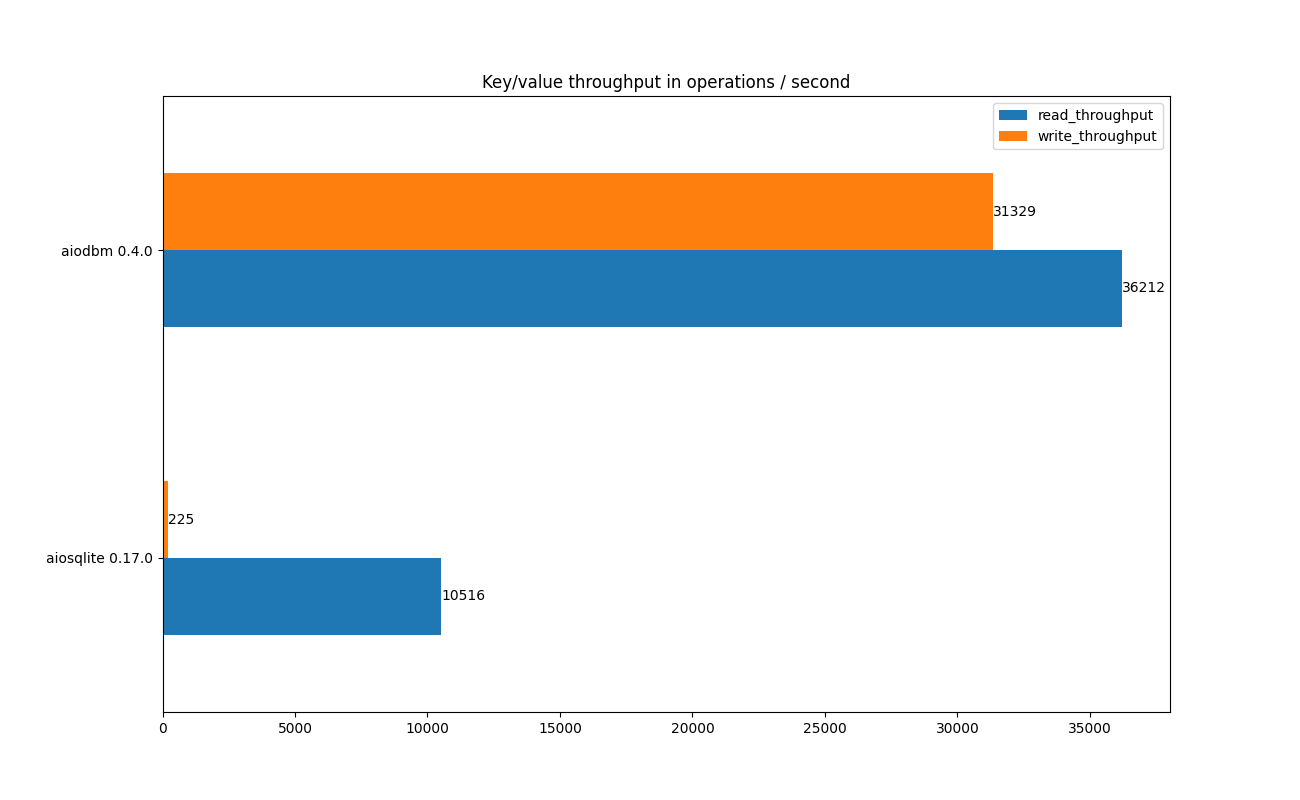
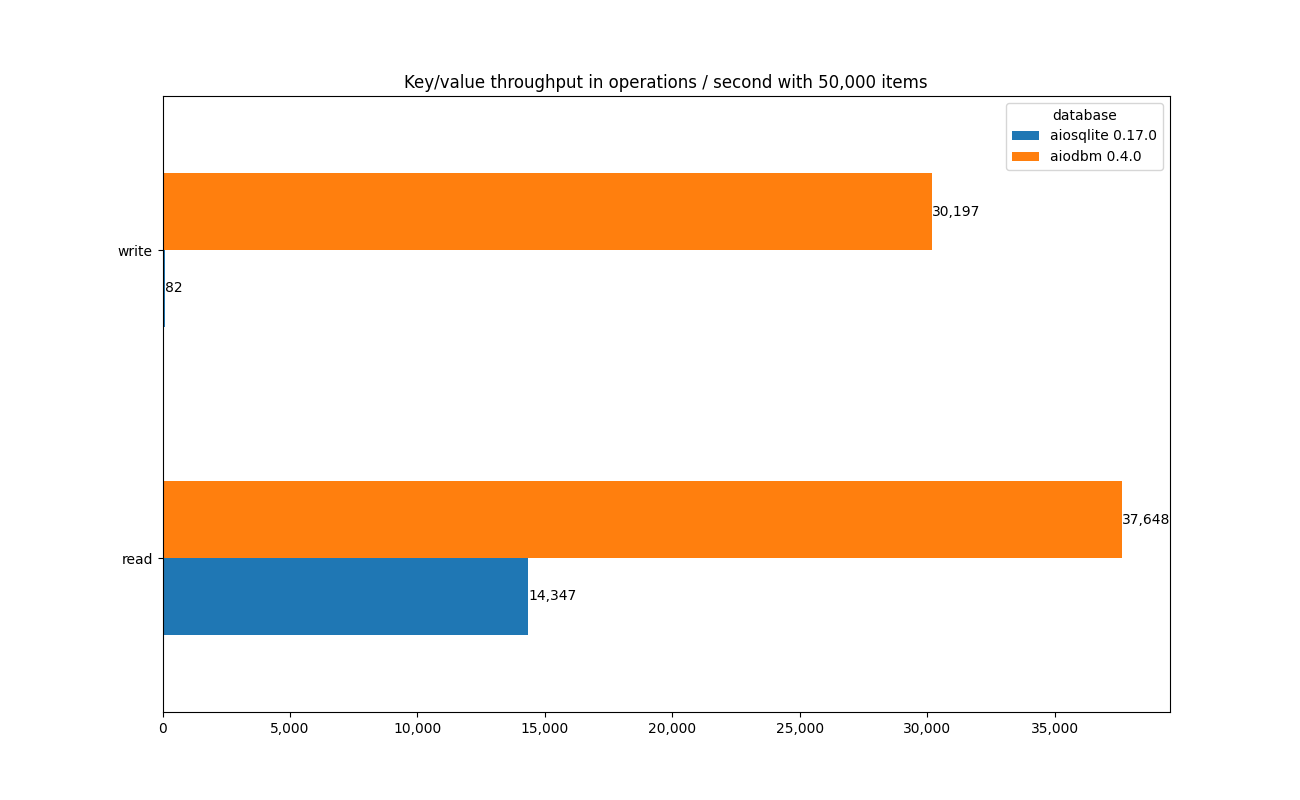
Measure for 50K items

diff --git a/measurements/run.py b/measurements/run.py
@@ -1,5 +1,6 @@
-"""Measure and compare throughput between normal DBM and asyncio version."""
+"""Measure and compare throughput between different asyncio key/value stores."""
 
+import argparse
 import asyncio
 import datetime as dt
 import json
@@ -48,12 +49,12 @@ def random_string(length: int) -> str:
 class Runner(ABC):
     name = "UNDEFINED"
 
-    def __init__(self, items_amount, obj_size) -> None:
-        if not items_amount or not obj_size:
+    def __init__(self, items_amount, item_size) -> None:
+        if not items_amount or not item_size:
             raise ValueError("Invalid params")
 
         self._items_amount = items_amount
-        self._obj_size = obj_size
+        self._item_size = item_size
         self._read_seconds = None
         self._write_sec = None
 
@@ -62,8 +63,8 @@ class Runner(ABC):
         return self._items_amount
 
     @property
-    def obj_size(self):
-        return self._obj_size
+    def item_size(self):
+        return self._item_size
 
     @property
     def read_throughput(self):
@@ -91,7 +92,7 @@ class Runner(ABC):
         """Run measurements and return result as throughput in items / sec."""
         with tempfile.TemporaryDirectory() as temp_dir:
             path = Path(temp_dir) / "measurement_2.dbm"
-            objs = self.generate_objs()
+            objs = self.generate_items()
 
             logger.info("%s: Start write measurements", self.name)
             timer_write = Timer()
@@ -111,9 +112,9 @@ class Runner(ABC):
         self._read_seconds = timer_read.duration_sec
         self._write_sec = timer_write.duration_sec
 
-    def generate_objs(self) -> Dict[str, bytes]:
+    def generate_items(self) -> Dict[str, bytes]:
         objs = {
-            f"item-{num:010}": random_string(self.obj_size).encode("utf-8")
+            f"item-{num:010}": random_string(self.item_size).encode("utf-8")
             for num in range(1, self.items_amount + 1)
         }
         return objs
@@ -136,7 +137,7 @@ class Runner(ABC):
             "read_throughput": self.read_throughput,
             "write_throughput": self.write_throughput,
             "items_amount": self.items_amount,
-            "object_size": self._obj_size,
+            "object_size": self._item_size,
             "timestamp": dt.datetime.utcnow().isoformat(),
         }
         return data
@@ -197,11 +198,27 @@ async def run_async(runners: Iterable[Runner]):
 
 
 def main():
-    items_amount = 10_000
-    object_size = 256
+    parser = argparse.ArgumentParser(description=__doc__)
+    parser.add_argument(
+        "--items-amount",
+        default=10_000,
+        type=int,
+        help="Amount of items to run measurement with",
+    )
+    parser.add_argument(
+        "--item-size", default=256, type=int, help="Size of binary items in bytes"
+    )
+    args = parser.parse_args()
+
+    logger.info(
+        "Running measurements with %d items and %d item size",
+        args.items_amount,
+        args.item_size,
+    )
+
     runners: List[Runner] = [
-        SqliteRunner(items_amount, object_size),
-        DbmRunner(items_amount, object_size),
+        SqliteRunner(args.items_amount, args.item_size),
+        DbmRunner(args.items_amount, args.item_size),
     ]
 
     asyncio.run(run_async(runners))

diff --git a/src/aiodbm/__init__.py b/src/aiodbm/__init__.py
@@ -1,6 +1,6 @@
 """An AsyncIO bridge for DBM."""
 
-__version__ = "0.4.1"
+__version__ = "0.4.2"
 
 from .core import Database, error, open, whichdb
 

diff --git a/README.rst b/README.rst
@@ -16,7 +16,7 @@ aiodbm is a library that allows you to use DBM in asyncio code.
 * Docstrings and documentation
 * Fully tested
 
-Why use DBM?
+Why use aiodbm?
 ---------------
 
 `DBM <https://en.wikipedia.org/wiki/DBM_(computing)>`_ is a fast and easy to use, embedded key-value store.
@@ -24,20 +24,20 @@ It is supported by Python's standard library [1]_ and can be used on most system
 
 Compared to Sqlite - the other embedded database supported by Python's standard library - it is significantly faster when used as key/value store.
 
-According to our measurement we see that aiodbm is about 140x faster on writes and about 3.5x faster on reads [3]_ on Linux:
+In our measurements we see that aiodbm is hundreds or times faster for writes and more then three faster for reads compared to aiosqlite [3]_:
 
 .. image:: https://raw.githubusercontent.com/ErikKalkoken/aiodbm/main/measurements/measurements.png
   :width: 800
   :alt: Throughput measurements for aiodbm vs. aiosqlite
 
-So if you are looking for a fast and an easy to use key-value store (e.g. for caching) on Linux systems, DBM can be a good solution. And aiodbm allows you use DBM in your asyncio programs.
+So if you are on a Linux system and need a fast and an easy to use embedded key-value store for asyncio, aiodbm can be a good solution.
 
 Caveats
 -------
 
-On non Linux-like systems Python might use it's "dumb" DBM implementation, which will be much slower.
+On non Linux-like systems DBM is usually not available and Python will fall back on it's "dumb" DBM implementation. While DBM's core functionality still works, that implementation is be much slower.
 
-DBM is not process safe. If you need a key-value store in a multi process context (e.g. a web server running with gunicorn) we'd recommend to use Redis or something similar instead.
+Python's DBM library is not process safe. If you need a key-value store in a multi process context (e.g. a web server running with gunicorn) we'd recommend to use Redis or something similar instead.
 
 Usage
 -----
@@ -87,7 +87,7 @@ Reference
 
 .. [2] The newer DBM variants GDBM or NDBM are preinstalled on most Linux/Unix systems: https://en.wikipedia.org/wiki/DBM_(computing)#Availability
 
-.. [3] We compared the asyncio versions with 10.000 write and read operations of key/value pairs on Linux with GDBM. See also measurements folder for more details.
+.. [3] We compared asyncio compatible key/value stores on Linux with GDBM. See also measurements folder for more details.
 
 .. _DBM: https://en.wikipedia.org/wiki/DBM_(computing)
 .. _benchmark: https://charlesleifer.com/blog/completely-un-scientific-benchmarks-of-some-embedded-databases-with-python/

diff --git a/CHANGELOG.md b/CHANGELOG.md
@@ -13,6 +13,12 @@ and this project adheres to [Semantic Versioning](http://semver.org/).
 
 ### Fixed
 
+## [0.4.2] - 2023-06-08
+
+### Changed
+
+- Changed measurements default to 50K items
+
 ## [0.4.1] - 2023-06-08
 
 ### Changed
